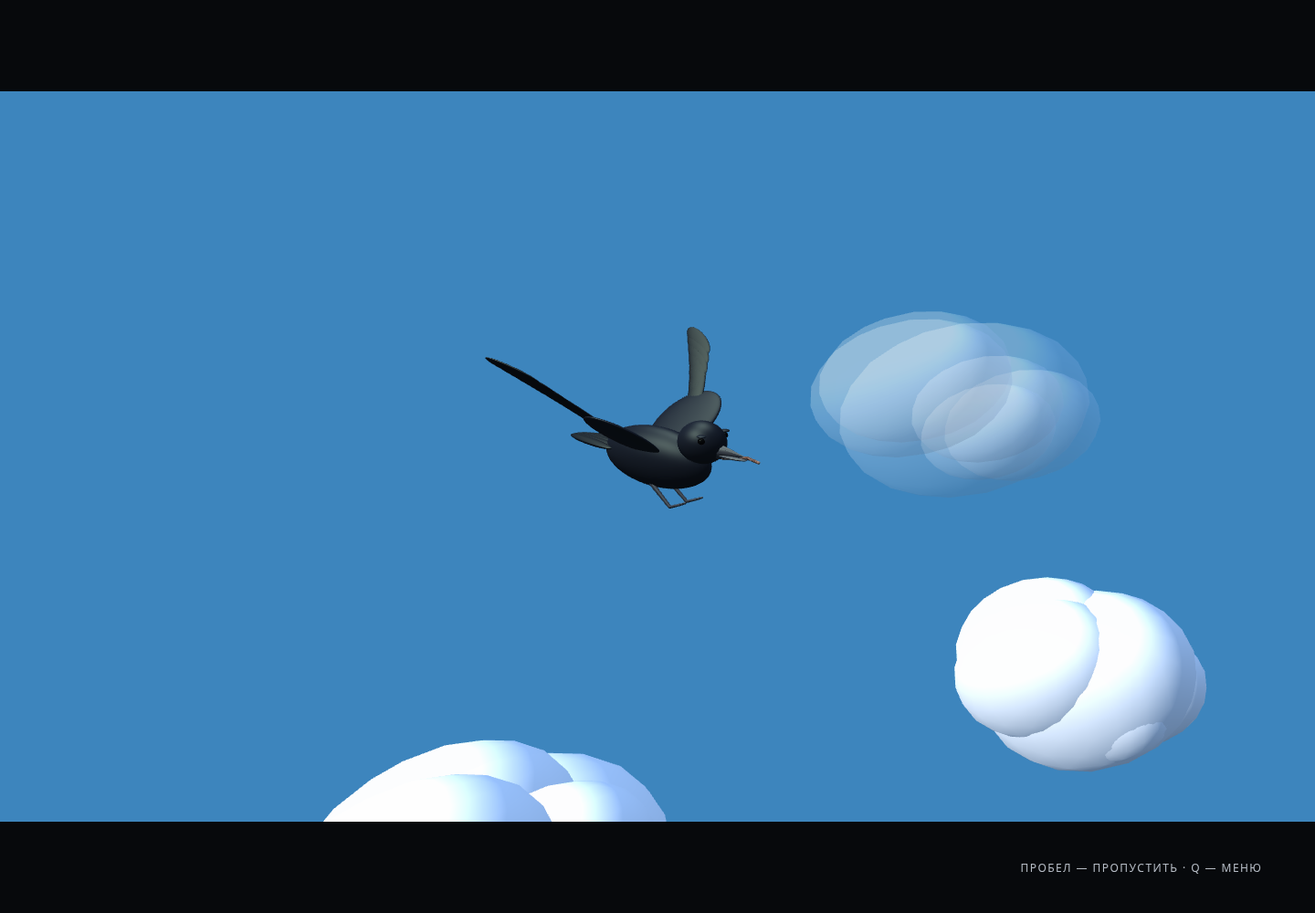
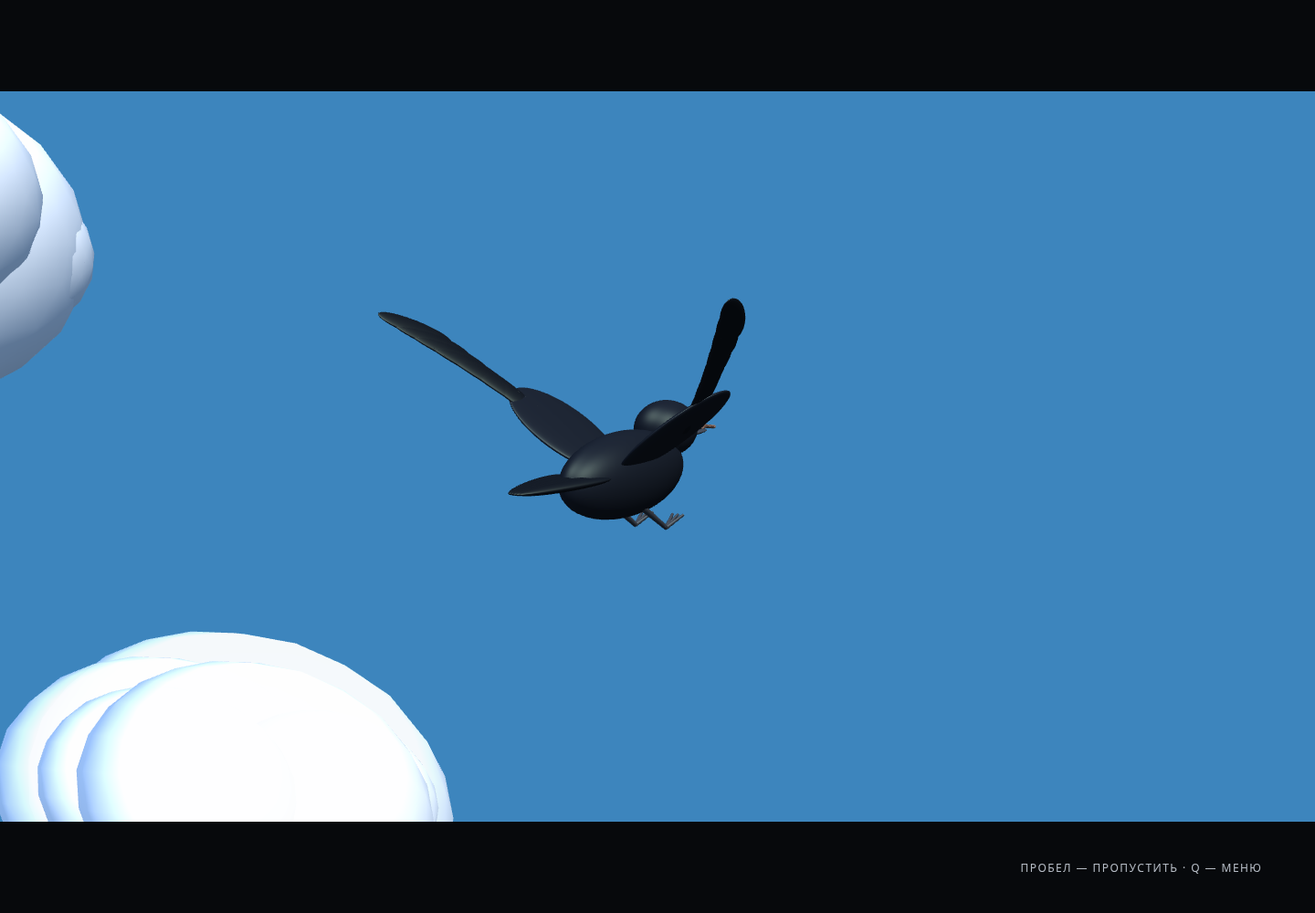
Bring eagle into flight shot and smooth worm landing transition

diff --git a/tests/browser/cinematic.spec.ts b/tests/browser/cinematic.spec.ts
@@ -326,9 +326,7 @@ test('eagle spotting insert leads to a rear talon grip, shocked beak and continu
   expect(errors).toEqual([]);
 });
 
-test('eagle stays outside the lens when enabled and flies in through the edge of the pursuit shot', async ({
-  page,
-}) => {
+test('eagle enters the returning flight shot before the cut to the attack', async ({ page }) => {
   await page.clock.install();
   await page.goto('/?seed=12');
   await page.locator('#enter-cinematic').click({ timeout: 60000 });
@@ -347,12 +345,70 @@ test('eagle stays outside the lens when enabled and flies in through the edge of
   }
   await show(53.8, 'worm-eagle-notices');
   await expect(canvas).toHaveAttribute('data-eagle-in-frame', 'true');
-  for (const t of [55.2, 63, 65, 66.8, 67.05]) {
-    await show(t, t === 67.05 ? 'worm-eagle-before-entry' : undefined);
+  for (const t of [55.2, 63]) {
+    await show(t, t === 63 ? 'worm-eagle-before-entry' : undefined);
     await expect(canvas).toHaveAttribute('data-intro-eagle', 'true');
     await expect(canvas).toHaveAttribute('data-eagle-in-frame', 'false');
   }
-  await show(69.8, 'worm-eagle-enters-edge');
-  await show(70.5, 'worm-eagle-entered');
+  await show(64.5, 'worm-eagle-enters-edge');
+  await show(65.8, 'worm-eagle-entered');
+  await expect(canvas).toHaveAttribute('data-intro-shot', '5');
   await expect(canvas).toHaveAttribute('data-eagle-in-frame', 'true');
+  await show(66.6, 'worm-eagle-in-flight-shot');
+  await expect(canvas).toHaveAttribute('data-intro-shot', '5');
+  await expect(canvas).toHaveAttribute('data-eagle-in-frame', 'true');
+});
+
+test('landing camera, exposure and fog remain continuous across the impact and handoff', async ({
+  page,
+}) => {
+  await page.clock.install();
+  await page.goto('/?seed=12');
+  await page.locator('#enter-cinematic').click({ timeout: 60000 });
+  const canvas = page.locator('#world');
+  await page.clock.pauseAt(await page.evaluate(() => Date.now() + 1000));
+  const show = async (t: number, name: string) => {
+    const now = Number(await canvas.getAttribute('data-animation-time'));
+    await page.clock.fastForward((t - now) * 1000);
+    await page.clock.runFor(16);
+    await page.screenshot({ path: 'docs/images/' + name + '.png' });
+    expect(Number(await canvas.getAttribute('data-worm-surface-min-y'))).toBeGreaterThanOrEqual(
+      0.0399,
+    );
+    const cinematic = (await canvas.getAttribute('data-cinematic')) === 'true';
+    return {
+      camera: cinematic
+        ? JSON.parse((await canvas.getAttribute('data-intro-camera'))!)
+        : await Promise.all(
+            ['x', 'y', 'z'].map(async (axis) =>
+              Number(await canvas.getAttribute('data-rendered-camera-' + axis)),
+            ),
+          ),
+      target: cinematic
+        ? JSON.parse((await canvas.getAttribute('data-intro-target'))!)
+        : await Promise.all(
+            ['x', 'y', 'z'].map(async (axis) =>
+              Number(await canvas.getAttribute('data-camera-target-' + axis)),
+            ),
+          ),
+      exposure: Number(await canvas.getAttribute('data-scene-exposure')),
+      fog: Number(await canvas.getAttribute('data-scene-fog')),
+    };
+  };
+  await show(109.6, 'worm-landing-approach');
+  const a = await show(109.98, 'worm-landing-before');
+  const b = await show(110.02, 'worm-landing-after');
+  for (const key of ['camera', 'target'] as const)
+    expect(Math.hypot(...a[key].map((v: number, i: number) => v - b[key][i]))).toBeLessThan(0.5);
+  expect(Math.abs(a.exposure - b.exposure)).toBeLessThan(0.02);
+  expect(Math.abs(a.fog - b.fog)).toBeLessThan(0.001);
+  await show(110.8, 'worm-landing-rest');
+  await show(113, 'worm-slow-recovery');
+  const before = await show(133.9, 'worm-handoff-before');
+  const after = await show(134.4, 'worm-handoff-after');
+  for (const key of ['camera', 'target'] as const)
+    expect(
+      Math.hypot(...before[key].map((v: number, i: number) => v - after[key][i])),
+    ).toBeLessThan(0.1);
+  await expect(canvas).toHaveAttribute('data-cinematic', 'false');
 });

diff --git a/src/core/cinematic.test.ts b/src/core/cinematic.test.ts
@@ -94,7 +94,7 @@ test('both birds fit the attack camera and the fall camera tracks the rotating b
       right[2]! * forward[0]! - right[0]! * forward[2]!,
       right[0]! * forward[1]! - right[1]! * forward[0]!,
     ];
-    for (const bird of time >= 71 ? [s.crow, s.eagle] : [s.crow]) {
+    for (const bird of [s.crow, s.eagle]) {
       const relative = sub(bird, s.camera),
         depth = dot(relative, forward);
       assert.ok(depth > 0);
@@ -257,7 +257,7 @@ test('the eagle notices the crow in a short insert, overtakes from behind and cl
   for (const t of [65, 68, 71, 73]) {
     const s = sampleIntro(t);
     assert.ok(s.eagle[2] < s.crow[2]);
-    assert.ok(s.eaglePose.rotation[1] > -0.3 && s.eaglePose.rotation[1] < 0.1);
+    assert.ok(s.eaglePose.rotation[1] > -0.3 && s.eaglePose.rotation[1] < 1.35);
   }
   assert.equal(sampleIntro(74.1).eaglePose.grasp, 0);
   assert.equal(sampleIntro(74.65).eaglePose.grasp, 1);
@@ -277,21 +277,38 @@ test('the eagle notices the crow in a short insert, overtakes from behind and cl
   }
 });
 
-test('eagle is enabled beyond the lens and starts the pursuit shot beyond the left edge', () => {
+test('eagle is enabled offscreen and enters the returning crow flight shot before the attack cut', () => {
   const sub = (a: number[], b: number[]) => a.map((v, i) => v - b[i]!);
   const dot = (a: number[], b: number[]) => a.reduce((sum, v, i) => sum + v * b[i]!, 0);
   const norm = (a: number[]) => a.map((v) => v / Math.hypot(...a));
-  const radius = EAGLE_SCALE * 2.1; // Conservative envelope including spread wing tips.
-  for (const t of [51, 55, 63, 65, 66.9]) {
+  const k = Math.tan(0.75 / 2) * 1.44;
+  for (const t of [51, 55, 61, 63]) {
     const s = sampleIntro(t),
       forward = norm(sub(s.target, s.camera));
+    const right = norm([forward[2]!, 0, -forward[0]!]),
+      d = sub(s.eagle, s.camera);
     assert.ok(s.eagleVisible);
-    assert.ok(dot(sub(s.eagle, s.camera), forward) + radius < 0);
+    assert.ok(
+      dot(d, forward) + EAGLE_SCALE * 2.1 < 0 ||
+        (dot(d, right) + k * dot(d, forward)) / Math.hypot(1, k) + EAGLE_SCALE * 2.1 < 0,
+    );
   }
-  const s = sampleIntro(67),
-    forward = norm(sub(s.target, s.camera));
-  const right = norm([forward[2]!, 0, -forward[0]!]),
-    relative = sub(s.eagle, s.camera);
-  const k = Math.tan(0.75 / 2) * 1.44;
-  assert.ok((dot(relative, right) + k * dot(relative, forward)) / Math.hypot(1, k) + radius < 0);
+  for (const t of [65.5, 66.5]) {
+    const s = sampleIntro(t),
+      forward = norm(sub(s.target, s.camera));
+    const right = norm([forward[2]!, 0, -forward[0]!]),
+      d = sub(s.eagle, s.camera);
+    assert.equal(s.shot, 5);
+    assert.ok(Math.abs(dot(d, right)) < dot(d, forward) * k);
+  }
+});
+test('landing camera and target reach the resting shot without a cut at impact', () => {
+  let previous = sampleIntro(109.5);
+  for (let t = 109.501; t < 110.5; t += 0.001) {
+    const s = sampleIntro(t);
+    assert.ok(Math.hypot(...s.camera.map((v, i) => v - previous.camera[i]!)) < 0.04);
+    assert.ok(Math.hypot(...s.target.map((v, i) => v - previous.target[i]!)) < 0.04);
+    previous = s;
+  }
+  assert.deepEqual(sampleIntro(110).camera, sampleIntro(110.5).camera);
 });

diff --git a/src/core/cinematic.ts b/src/core/cinematic.ts
@@ -47,8 +47,8 @@ function crowPath(t: number): Point {
 }
 function eaglePath(t: number): Point {
   // Faster flight along the crow's heading: approach from behind, then carry the caught bird.
-  const catchUp = smooth((t - 67) / 7.6);
-  const offset = mix([20, 12, -100], [0, 5.65, -0.8], catchUp);
+  const entry = mix([-60, 12, -35], [-4, 8, -11], smooth((t - 61) / 5.6));
+  const offset = mix(entry, [0, 5.65, -0.8], smooth((t - 66.6) / 8));
   return add(crowPath(t), offset);
 }
 const velocity = (path: (t: number) => Point, t: number): Point =>
@@ -193,7 +193,7 @@ export function sampleIntro(seconds: number) {
   }) as [Point, Point];
   eaglePose.flap *= 1 - eaglePose.grasp * 0.65;
   eaglePose.fold += eaglePose.grasp * 0.12;
-  eaglePose.look = -0.4 * smooth((time - 53.35) / 0.7) * (1 - smooth((time - 55) / 1));
+  eaglePose.look = 0.55 * smooth((time - 53.35) / 0.7) * (1 - smooth((time - 55) / 1));
   eaglePose.dip = 0.12 * smooth((time - 53.35) / 0.7) * (1 - smooth((time - 55) / 1));
   const carried = time >= 32 && time < RELEASE_TIME,
     falling = phase === 'fall';
@@ -207,6 +207,7 @@ export function sampleIntro(seconds: number) {
     : falling
       ? fallPosition(time - RELEASE_TIME)
       : [0, 0, -5.2];
+  const landingView = smooth((time - 107.5) / 2.5);
   const landingBlend = falling ? smooth((time - 109.4) / 0.6) : time >= IMPACT_TIME ? 1 : 0;
   const recoveryRoll = Math.PI * (1 - smooth((time - 111.3) / 12));
   let rotation: Point = falling
@@ -292,11 +293,17 @@ export function sampleIntro(seconds: number) {
       Math.sin(elevation) * radius,
       Math.cos(yaw) * Math.cos(elevation) * radius,
     ];
-    target = centre;
-    camera = add(target, mix(offset, [0.45, 2.5, 4.3], smooth((time - 107) / 3)));
+    // The resting frame travels down with the worm, then becomes the exact ground frame.
+    target = mix(centre, add(worm, [0.6, 0.12, -0.5]), landingView);
+    const frameOffset = mix(offset, [0.1, 5.08, 0], landingView);
+    const frameRadius = radius * (1 - landingView) + Math.hypot(0.1, 5.08) * landingView;
+    camera = add(
+      target,
+      frameOffset.map((v) => (v * frameRadius) / Math.hypot(...frameOffset)) as Point,
+    );
   } else {
     const after = time - IMPACT_TIME;
-    camera = mix([0.7, 5.2, -5.7], [1.4, 0.8, -3.8], smooth(after - 1.1));
+    camera = mix([0.7, 5.2, -5.7], [1.4, 0.8, -3.8], smooth((after - 1.1) / 2.5));
     target = mix([0.6, 0.12, -5.7], [0, 0.12, -6.2], smooth((time - 119) / 5));
     camera = mix(camera, [0, 2.38, -8.98], smooth((time - 124) / (INTRO_DURATION - 124)));
     target = mix(target, [0, 0.55, -5.2], smooth((time - 124) / (INTRO_DURATION - 124)));
@@ -338,6 +345,7 @@ export function sampleIntro(seconds: number) {
     falling,
     grip: attachment.grip,
     landingBlend,
+    landingView,
     knockdown,
     headLift,
     impact: after >= 0 && after < 1.4 ? after / 1.4 : -1,

diff --git a/src/render/createStudyScene.ts b/src/render/createStudyScene.ts
@@ -2,7 +2,7 @@ import { Frustum } from '@babylonjs/core/Maths/math.frustum';
 import { WORLD_PALETTE as palette } from './palette.ts';
 import { createCinematicSky } from './cinematicSky.ts';
 import { ColorCurves } from '@babylonjs/core/Materials/colorCurves';
-import { MOUTH, crowGraspTargets } from '../core/birds.ts';
+import { MOUTH, crowGraspTargets, smooth as smoothGrade } from '../core/birds.ts';
 import { createProceduralBird } from './models/proceduralBird.ts';
 import { sampleIntro, SUN_POSITION } from '../core/cinematic.ts';
 import { createIntroStage } from './introStage.ts';
@@ -154,12 +154,13 @@ export async function createStudyScene(
       ) {
         scene.clearColor.set(...palette.sky, 1);
         scene.fogColor.set(...palette.fog);
-        scene.fogDensity = 0.002;
-        fill.intensity = 0.85 - 0.6 * sample.solarStrength;
-        fill.diffuse.set(0.68, 0.82, 1);
-        sun.intensity = 0.95 - 0.55 * sample.solarStrength;
+        const settle = sample.falling ? sample.landingView : 0;
+        scene.fogDensity = 0.002 + 0.004 * settle;
+        fill.intensity = (0.85 - 0.6 * sample.solarStrength) * (1 - settle) + 0.75 * settle;
+        fill.diffuse.set(0.68 + 0.02 * settle, 0.82 + 0.02 * settle, 1);
+        sun.intensity = (0.95 - 0.55 * sample.solarStrength) * (1 - settle) + 1.05 * settle;
       } else fill.diffuse.set(...palette.fill);
-      const exhaustion = sample.phase === 'aftermath' ? 1 - sample.handoff : 0;
+      const exhaustion = smoothGrade((seconds - 109) / 1.8) * (1 - sample.handoff);
       grade.globalSaturation = -30 * exhaustion;
       scene.imageProcessingConfiguration.exposure = 1 - 0.16 * exhaustion;
       camera.fov = 0.75 + 0.25 * sample.handoff;
@@ -187,6 +188,7 @@ export async function createStudyScene(
         .join(',');
       canvas.dataset.beetleVisible = String(actor.root.isEnabled());
       canvas.dataset.sceneFog = String(scene.fogDensity);
+      canvas.dataset.sceneExposure = String(scene.imageProcessingConfiguration.exposure);
       canvas.dataset.sunTint = sun.diffuse.toHexString();
       const viewport = camera.viewport.toGlobal(engine.getRenderWidth(), engine.getRenderHeight());
       const projectedSun = Vector3.Project(
@@ -368,6 +370,7 @@ export async function createStudyScene(
         .join(',');
       canvas.dataset.beetleVisible = String(actor.root.isEnabled());
       canvas.dataset.sceneFog = String(scene.fogDensity);
+      canvas.dataset.sceneExposure = String(scene.imageProcessingConfiguration.exposure);
       canvas.dataset.sunTint = sun.diffuse.toHexString();
       const tail = walk.body.pose(10);
       Object.assign(canvas.dataset, {

diff --git a/src/render/models/proceduralWorm.ts b/src/render/models/proceduralWorm.ts
@@ -63,7 +63,7 @@ export function createProceduralWorm(scene: Scene) {
       scene,
       'worm-tired-lid',
       new Vector3(side * HEAD_LID[0], HEAD_LID[1], HEAD_LID[2]),
-      new Vector3(0.008, 0.0045, 0.014),
+      new Vector3(0.01, 0.0055, 0.017),
       headSkin,
       head,
     );
@@ -72,8 +72,8 @@ export function createProceduralWorm(scene: Scene) {
     ellipsoid(
       scene,
       'worm-eye-shine',
-      new Vector3(side * 0.063, 0.02, 0.052),
-      new Vector3(0.001, 0.0015, 0.0015),
+      new Vector3(side * 0.066, 0.021, 0.055),
+      new Vector3(0.0013, 0.0018, 0.0018),
       pearl,
       head,
     );
@@ -164,7 +164,7 @@ export function createProceduralWorm(scene: Scene) {
     presentIntro(sample: ReturnType<typeof sampleIntro>) {
       for (const lid of lids) {
         lid.position.y = HEAD_LID[1] - sample.knockdown * 0.01;
-        lid.scaling.y = 0.0045 + sample.knockdown * 0.008;
+        lid.scaling.y = 0.0055 + sample.knockdown * 0.0095;
       }
       presentPoints(
         segments.map((_, i) => introSegment(sample, i)),
@@ -175,7 +175,7 @@ export function createProceduralWorm(scene: Scene) {
     present(walk: WalkSession, seconds: number) {
       for (const lid of lids) {
         lid.position.y = HEAD_LID[1];
-        lid.scaling.y = 0.0045;
+        lid.scaling.y = 0.0055;
       }
       const raw = segments.map((_, i): Point => {
         const p = walk.body.pose(i),

diff --git a/src/core/wormSurface.ts b/src/core/wormSurface.ts
@@ -5,9 +5,9 @@ export const SURFACE_SIDES = 16;
 export const WORM_FLOOR = 0.04;
 // Rounded anterior cap, as wide as the trunk: no broad skull or narrow neck.
 export const HEAD_RADII: Point = [0.081, 0.073, 0.095];
-export const HEAD_EYE: Point = [0.057, 0.016, 0.05];
-export const HEAD_EYE_RADII: Point = [0.007, 0.014, 0.015];
-export const HEAD_LID: Point = [0.056, 0.027, 0.05];
+export const HEAD_EYE: Point = [0.059, 0.016, 0.052];
+export const HEAD_EYE_RADII: Point = [0.009, 0.017, 0.018];
+export const HEAD_LID: Point = [0.058, 0.029, 0.052];
 export const HEAD_MOUTH: Point = [0, -0.018, 0.091];
 export const WORM_ANNULI = 32;
 export function annulusGroove(u: number): number {
@@ -48,8 +48,8 @@ export function headVerticalExtent(points: Point[], rotation: Point): number {
       [[side * HEAD_EYE[0], HEAD_EYE[1], HEAD_EYE[2]], HEAD_EYE_RADII],
       // Covers the full eyelid envelope both resting and lowered after impact.
       [
-        [side * HEAD_LID[0], HEAD_LID[1] - 0.004, HEAD_LID[2]],
-        [0.009, 0.015, 0.015],
+        [side * HEAD_LID[0], HEAD_LID[1] - 0.005, HEAD_LID[2]],
+        [0.012, 0.02, 0.019],
       ],
     ]),
     [HEAD_MOUTH, [0.015, 0.005, 0.006]],

diff --git a/docs/design/CINEMATICS.md b/docs/design/CINEMATICS.md
@@ -24,7 +24,7 @@
 
 Подача серьёзная; грустный и комический эффект возникает из самой ситуации. Шуточных подписей нет. Настроение финала Ли из первой The Walking Dead остаётся ориентиром будущего художественного этапа, без копирования героя, сцены или саундтрека.
 
-Появление орла в общем плане исправлено: модель включается на 51 с, когда целиком за камерой, и остаётся активной через перебивку 53–55 с. После возврата к вороне она снова за камерой. В начале плана погони на 67 с орёл ещё целиком за левым краем; затем физически влетает через него. Камера сначала удерживает ворону и постепенно включает преследователя в композицию. Показ внутри кадра больше не зависит от резкого переключения видимости на 65 с.
+Орёл активен с 51 с, пока находится вне кадра, и остаётся активным через перебивку 53–55 с. После возврата к вороне он плавно входит слева именно в общий полётный план 63–67 с: на 63 с целиком вне кадра, на 65,8 и 66,6 с уже виден рядом с вороной. Последующий план захвата начинается с 67 с, когда обе птицы уже показаны. Траектория состоит из бокового входа и последующего сближения сзади; смыкание когтей на 74,6 с и выпуск на 75 с сохранены.
 
 Захват орлом — работающий риг, а не только пересечение траекторий. Для каждой лапы две кости и три сгибающихся пальца с крючками; стопы вычисляются относительно двух точек на спине вороны. В render/models/raptorLeg.ts строятся колени/голени и закрывающиеся когти. Та же математика crowGraspTargets в core/birds.ts задаёт мировые цели и проверяется по фактическим трансформациям стоп в браузере. Птицы после захвата продолжают лететь вместе, пока камера уходит за червём.
 
@@ -40,7 +40,7 @@
 
 ## Референс и художественное направление
 
-Доска пользователя получена и использована для переработки модели: [WORM.md](WORM.md). Бледность показывается локальной потерей коричневого пигмента и более светлым усталым лицом. Освещение и окружение используют единую стилизованную [палитру](PALETTE.md): голубое небо с самого первого кадра и в игре, тёплая глина, нефритовые растения, голубые камни; после удара — приглушённая насыщенность и экспозиция, верхний план всего лежащего тела и медленный уход к игровому ракурсу. Фото с лестницей служит ориентиром тишины, тяжести и истощения, без буквального переноса лестницы или снега. Полностью окружение иллюстрации не моделировалось.
+Доска пользователя получена и использована для переработки модели: [WORM.md](WORM.md). Бледность показывается локальной потерей коричневого пигмента и более светлым усталым лицом. Освещение и окружение используют единую стилизованную [палитру](PALETTE.md): голубое небо с самого первого кадра и в игре, тёплая глина, нефритовые растения, голубые камни; после удара — приглушённая насыщенность и экспозиция, верхний план всего лежащего тела и медленный уход к игровому ракурсу. С 107,5 до 110 с камера непрерывно поднимается к верхнему ракурсу, опускаясь вместе с червём. На 110 с её позиция и цель совпадают с первым кадром лежащего червя, склейки больше нет. Свет/туман мягко сходятся к наземным значениям; насыщенность и экспозиция изменяются плавно с 109 до 110,8 с. После неподвижности переход к низкому ракурсу длится 2,5 с. Фото с лестницей служит ориентиром тишины, тяжести и истощения, без буквального переноса лестницы или снега. Полностью окружение иллюстрации не моделировалось.
 
 Исправлено проникновение в грунт перед последним кадром падения: ограничивается вся вращающаяся поверхность и объём головы/лица, а не корневая точка. В конце камера приподнимается и уходит к середине прохода, чтобы берега и камни не закрывали контакт. Момент приземления и 35-секундная длительность не изменены.
 
@@ -65,3 +65,5 @@
 Новая последовательность: [орёл замечает](../images/worm-eagle-notices.png), [догоняет сзади](../images/worm-rear-pursuit.png), [когти закрываются](../images/worm-talons-closing.png), [реакция вороны](../images/worm-crow-startled.png), [червь выпадает](../images/worm-grasp-release.png).
 
 Проверочные кадры входа: [до появления](../images/worm-eagle-before-entry.png), [пересечение левого края](../images/worm-eagle-enters-edge.png), [внутри кадра](../images/worm-eagle-entered.png).
+
+Переход приземления: [перед касанием](../images/worm-landing-before.png), [после касания](../images/worm-landing-after.png), [медленное восстановление](../images/worm-slow-recovery.png). [Орёл уже в полётном плане](../images/worm-eagle-in-flight-shot.png).

diff --git a/PROJECT_KNOWLEDGE.md b/PROJECT_KNOWLEDGE.md
@@ -24,8 +24,9 @@
 - Исправлено проникновение червя под землю перед склейкой: учитывается объём вращающейся головы/лица и вся поверхность тела, вершины проверяются в мировых координатах, а не только Y корня. Последняя фаза камеры идёт над центром прохода, без перекрытия удара камнями. Тайминги, музыка и захват клювом сохранены.
 - Последняя постановка: червь длиннее в 1,5 раза (шаг 0,21), почти равномерная толщина, округлый хвост. Обе птицы ещё ×1,5; ворона ускоряется вперёд и вверх, широкий план не вращается. Фронтальная камера кашля, шесть капель изо рта, звук кашля −6 dB. При отпускании теперь нет склейки: камера непрерывно подходит к червю, снижается за ним и на 78–78,7 с совмещает его с солнцем (0,7 с bullet time). Потерянное время компенсируют внутренние часы: падение остаётся 75–110 с. На 53–55 с отдельная перебивка: орёл замечает ворону. Затем догоняет её сверху сзади и закрывает когти на двух точках спины к 74,6 с; с 74,65 с крупный план удивлённой вороны, раскрытие клюва и выпадение червя на 75 с. Лапы имеют две кости и три сгибающихся пальца, мировые точки захвата проверены по реальному рендеру. Облака на линии обзора плавно рассеиваются. 48 объёмных банков облаков и 25 слоёв ближней дымки. После удара — скрученное тело на спине, 1,1 с неподвижности, слабый подъём головы, медленный переворот и распрямление с повторным кровавым кашлем. Во время падения усилены пространственные изгибы и добавлен мягкий облёт камеры. Палитра игры обновлена, небо голубое с первого кадра до управления. Место падения остаётся тем же: пользователь сам отказался от переноса в другую локацию на этом этапе. Коррекция земли теперь сохраняет объём хвоста.
 - Последняя правка модели по замечанию «похож на маленькую змею»: укорочен и сужен передний конец до ширины туловища, глаза/рот перенесены и уменьшены, цвет лица ближе к телу. 32 кольца выделены рельефом и согласованной фактурой (160 продольных интервалов, 2739 вершин). Пересчитаны объёмы защиты лица от грунта и источник капель изо рта. Постановка, длина, хвост, палитра и музыка сохранены.
-- Исправлено резкое появление орла: включается вне кадра на 51 с, остаётся активным через перебивку, в плане погони входит из-за левого края. Дальность/камера сближения пересчитаны, захват 74,6 с и выпуск 75 с сохранены.
+- Орёл включается вне кадра на 51 с и остаётся активным через перебивку. По последнему уточнению он входит слева уже в общий полётный план 63–67 с и виден до смены плана на захват. Боковой вход и последующее сближение пересчитаны; захват 74,6 с и выпуск 75 с сохранены.
 - По просьбе пользователя исследованы практики AI-разработки игр; предложения и прочитанные источники — docs/DEVELOPMENT_ROADMAP.md. Рекомендуемый следующий риск — полный цикл взаимопомощи двух ролей; визуальное направление можно уточнять параллельно до массового контента. Этот план является предложением: новые этапы, сервер, смена движка и сторонние агенты не утверждены и не реализованы автоматически.
+- Убрана резкая склейка на приземлении: камера с 107,5 до 110 с непрерывно переходит к первому наземному ракурсу, свет/туман и экспозиция тоже сходятся плавно. Медленный переворот/распрямление сохраняются, опускание камеры к голове после неподвижности растянуто до 2,5 с. Глаза червя немного увеличены (примерно +20–29%), веки и защита лица от грунта обновлены, форма короткой головы сохранена.
 - Следующий шаг — пользовательская оценка пролога и обсуждение художественного направления, затем главное меню и полный цикл запуска. Полная эстафета, здоровье, бомба, вступление оператора, общая синхронизация и GLB-загрузчик остаются будущими задачами.
 
 ## 2. Концепция

diff --git a/docs/HANDOFF.md b/docs/HANDOFF.md
@@ -2,7 +2,26 @@
 
 Обновлено: 11 ноября 2026. Рабочая ветка: `spike/worm-third-person`.
 
-## Актуальный результат: вход орла за кадром и исследование процесса разработки
+## Актуальный результат: орёл входит в предыдущий план, плавное приземление и глаза
+
+База — 671e791. Пользователь уточнил, что орёл должен влетать именно в общий полётный кадр **перед** планом захвата. Предыдущая правка выводила его лишь в следующем плане. Также отмечен резкий переход на лежащего червя; во время работы добавлена просьба немного увеличить глаза.
+
+Орёл теперь входит слева в плане **63–67 с**: на 63 с полностью вне кадра, затем постепенно пересекает край и хорошо виден на 65,8 / 66,6 с. Путь: боковой подлёт с 61 до 66,6 с → догоняющее движение сзади до 74,6 с. Активен с 51 с вне кадра, без переключений видимости внутри кадра. Перебивка 53–55 с, когти/реакция/выпуск и солнечный портрет сохранены.
+
+Сравнение Git подтвердило: предыдущий коммит про вход орла не менял приземление. Однако ранняя постановка действительно содержала склейку на **110 с**: камера падения резко заменялась верхней камерой. Теперь 107,5–110 с камера непрерывно поднимается к верхнему ракурсу и снижается вместе с червём; её позиция и цель на касании точно продолжаются в первый наземный кадр. Расстояние до героя сохраняется при интерполяции, чтобы камера не пролетала через него. Свет/туман плавно сходятся к наземным, экспозиция/насыщенность меняются с 109 до 110,8 с вместо скачка. После 1,1 с неподвижности опускание к голове длится 2,5 с. Поза на спине, кашель, тяжёлое распрямление и 35 секунд падения сохранены.
+
+Глаза увеличены примерно на 20–29% по осям: радиусы 0,009 ×0,017 ×0,018 вместо 0,007 ×0,014 ×0,015. Чуть вынесены наружу/вперёд для читаемости, веки/блик и аналитический объём защиты лица подогнаны. Короткая округлая голова, кольца, длина и хвост не менялись.
+
+Проверено:
+
+- Сборка успешна, **44 модульных теста passed**: новый момент входа, целые птицы в последующем плане, непрерывные позиция/цель камеры по обе стороны 110 с, прежние поверхности/захват/тайминги.
+- Финальная выборочная серия после изменения глаз — **6 браузерных сценариев passed**, 1,4 минуты: крупные планы червя; три состояния; постановка/солнце/кашель/восстановление; захват орлом; вход в нужный полётный план; непрерывные камера/экспозиция/туман на касании и фактическая передача камеры в игровой режим. Последний тест сравнивает реальные камеры и цели в прологе и игре, не старые оставшиеся intro-атрибуты.
+- Просмотрены глаза в фронтальном кашле, орёл в полётном кадре, соседние кадры приземления. Они подтверждают читаемый вход и отсутствие прежней склейки.
+- Полный реальный музыкальный прогон и study.spec.ts отдельно не повторялись: звук/музыка, управление и настройки не менялись. Промежуточные постановочные прогоны повторяют сценарии финальной серии и не прибавляются к шести уникальным тестам.
+
+Актуальные источники — design/CINEMATICS.md и design/WORM.md. Исследовательский DEVELOPMENT_ROADMAP.md остаётся предложением, его этапы не начинались автоматически. Один итоговый commit/push в spike/worm-third-person после завершения; без merge main/dev и без публикации среды.
+
+## Предыдущий этап: вход орла за кадром и исследование процесса разработки
 
 База — c1a5a62. Пользователь заметил резкое появление орла слева внутри кадра и попросил исправить вход. Второй запрос — поиск гайдов/обсуждений о разработке игр с ИИ и рекомендуемый порядок дальнейших этапов.
 

diff --git a/docs/design/WORM.md b/docs/design/WORM.md
@@ -6,7 +6,7 @@
 
 Прежние 11 пересекающихся сфер заменены одной замкнутой деформируемой поверхностью тела: 160 продольных интервалов × 16 сторон, 2739 вершин с UV-швом и крышками. Кривая проходит через прежние 11 управляющих точек истории пути, поэтому движение WASD, плавный поворот головы и следование хвоста сохранены. Между точками — интерполяция Catmull–Rom; кольца мелкие, а не отдельные крупные «шарики». Длина увеличена в 1,5 раза: 11 управляющих точек с шагом 0,21 дают около 2,1 единицы вместо 1,4. Радиус туловища почти постоянный; закругление занимает лишь последние 4% длины. Небольшой поясок расположен ближе к голове.
 
-Голова — короткий округлый передний конец тела без широкого черепа и узкой шеи. Её ширина совпадает с туловищем: радиусы 0,081 × 0,073 × 0,095 вместо прежних 0,105 × 0,082 × 0,16. Она следует за передней частью тела. Глаза дополнительно уменьшены и сдвинуты к переднему концу, серо-коричневые, встроены в боковые поверхности; верхние веки дают усталое выражение, без прежних крупных чёрных шариков. Добавлен маленький опущенный рот. Лицо светлее туловища, но на четверть смешано с его пигментом, чтобы короткий передний конец не читался отдельной светлой головой. Во время падения выражение не превращается в испуг, крик или панику.
+Голова — короткий округлый передний конец тела без широкого черепа и узкой шеи. Её ширина совпадает с туловищем: радиусы 0,081 × 0,073 × 0,095 вместо прежних 0,105 × 0,082 × 0,16. Она следует за передней частью тела. Глаза небольшие и сдвинуты к переднему концу; после пользовательского просмотра увеличены примерно на 20–29% относительно первой версии короткой головы, серо-коричневые, встроены в боковые поверхности; положение и размер верхних век подогнаны к увеличенным глазам и дают усталое выражение, без прежних крупных чёрных шариков. Добавлен маленький опущенный рот. Лицо светлее туловища, но на четверть смешано с его пигментом, чтобы короткий передний конец не читался отдельной светлой головой. Во время падения выражение не превращается в испуг, крик или панику.
 
 32 кольцевых сегмента выделены и геометрией, и фактурой. Радиальные бороздки углублены с 2,5% до 12%, их окраска затемняется до 22%; единая функция annulusGroove синхронизирует рельеф и рисунок. Пять продольных интервалов на кольцо дают ровные бороздки без прежнего слабого/неравномерного чтения. Общая длина, почти равномерная толщина и округлый хвост сохранены.
 

diff --git a/docs/DEVELOPMENT_ROADMAP.md b/docs/DEVELOPMENT_ROADMAP.md
@@ -70,7 +70,7 @@
 > Цель: орёл входит в общий план через левую границу, без появления внутри кадра.
 > Контекст: сцена после перебивки 53–55 с.
 > Сохранить: захват к 74,6 с, выпуск на 75 с, солнце и 35 секунд падения.
-> Готово, когда: в момент включения вся модель за камерой; затем пересекает край; захват и переезд работают; есть проверочные кадры.
+> Готово, когда: в момент включения вся модель вне кадра; затем пересекает край; захват и переезд работают; есть проверочные кадры.
 
 Хорошее задание сообщает желаемый результат, важные ограничения и критерий готовности. Заранее диктовать каждую строку реализации не требуется.
 
